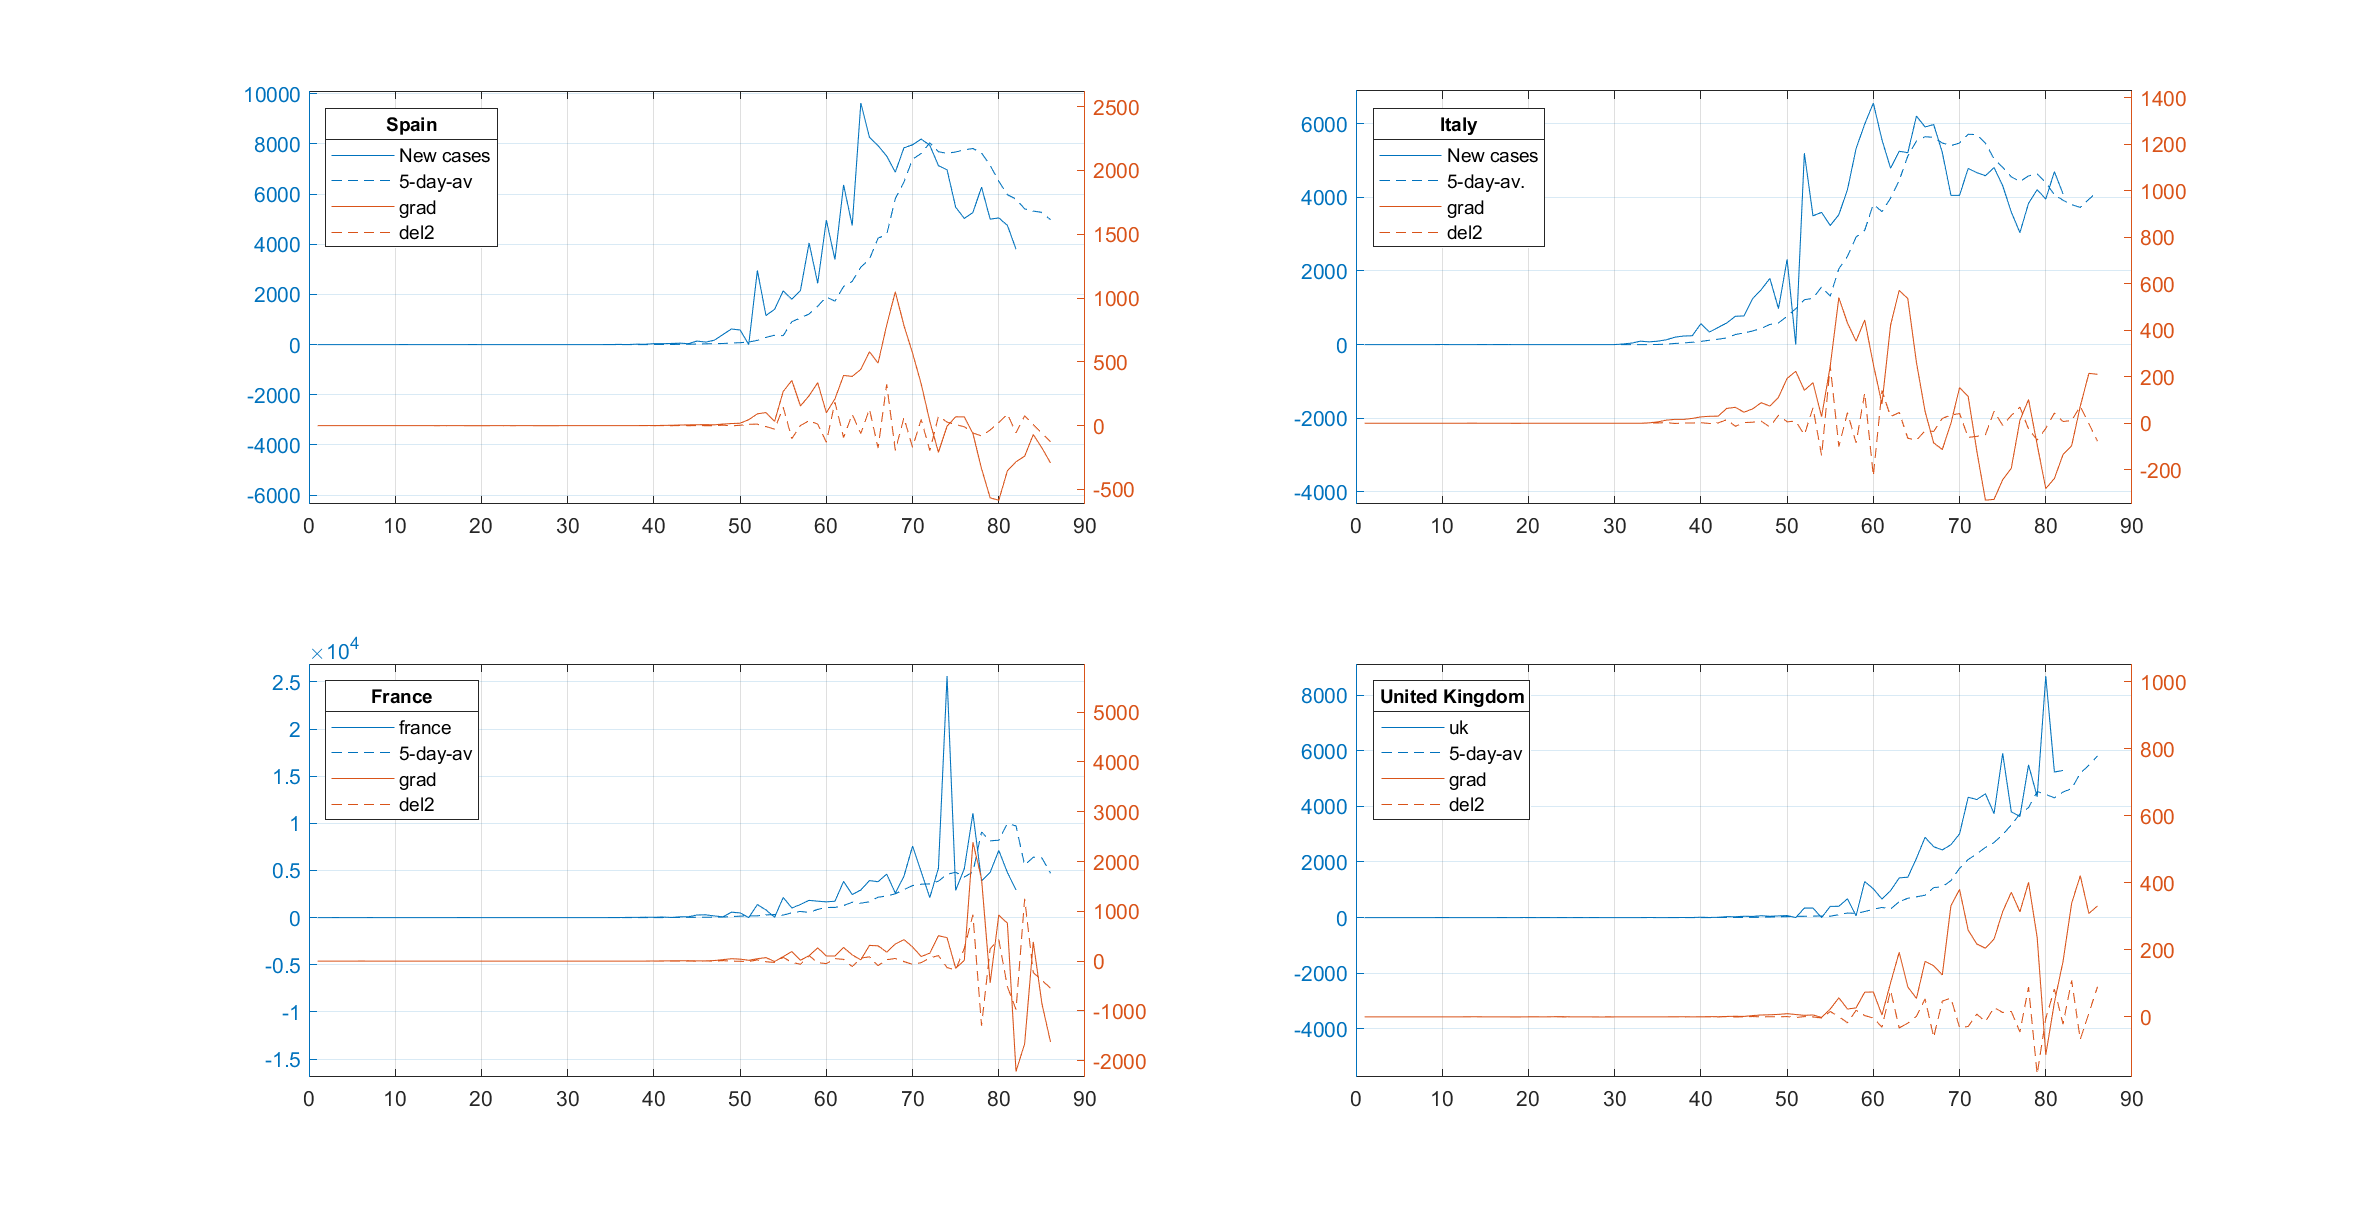
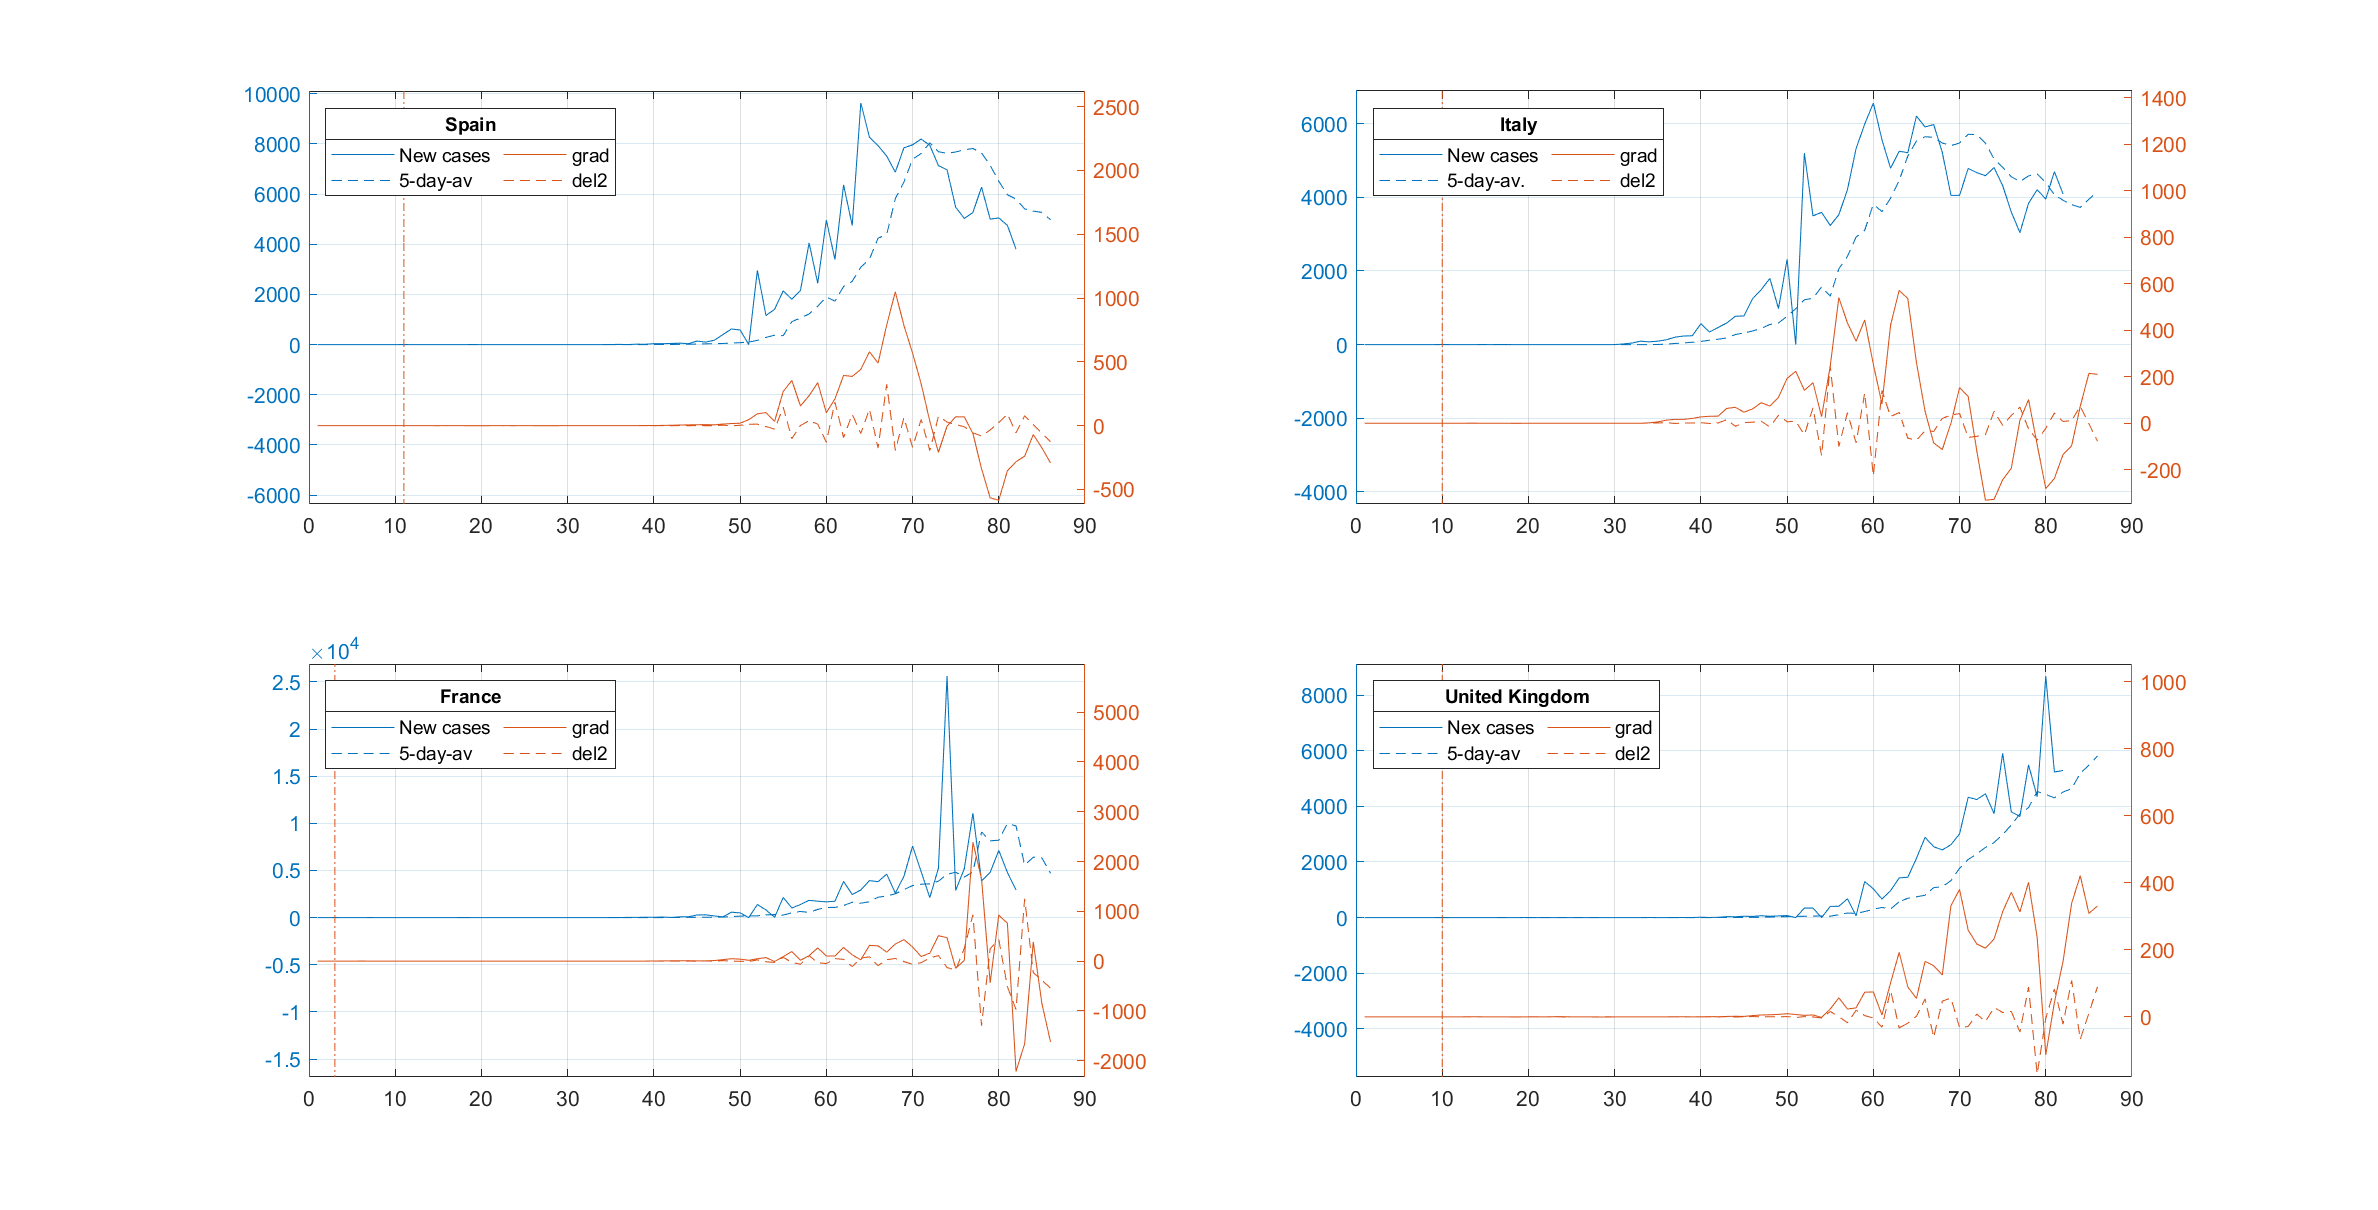
Edited legends and added offset

diff --git a/covidplotupdate.m b/covidplotupdate.m
@@ -17,7 +17,8 @@ url = ['https://raw.githubusercontent.com/CSSEGISandData/COVID-19/master/csse_co
 
 filename = 'time_series_covid19_confirmed_global.csv';
 options = weboptions('TimeOut',Inf);
-outputfilename = websave(filename, url, options)
+% outputfilename = websave(filename, url, options);
+websave(filename, url, options);
 
 data = readtable('time_series_covid19_confirmed_global.csv');
 
@@ -79,39 +80,62 @@ UK(5:end) = (UK(5:end) +UK(4:end-1) +UK(3:end-2) +UK(2:end-3) +UK(1:end-4) )/5; 
 fig1 = figure('Name','Confirmed new cases','Units','Normalized', 'OuterPosition',[0 0 1 1]);
 
 % Spain
-subplot(221), yyaxis left, plot(ESPor), hold on, plot(ESP),
+ESPh = subplot(221); yyaxis left, plot(ESPor), hold on, plot(ESP);
     ESPbelowlim = -0.66*max(ESPor);
     ESPabovelim = 1.05*max(ESPor);
     ylim([ESPbelowlim ESPabovelim ]);
-    yyaxis right, plot(gradient(ESP)), hold on, plot(del2(ESP)),
+    yyaxis right, plot(gradient(ESP)), hold on, plot(del2(ESP));
     grid on, ylim([1.05*min(min(gradient(ESP)),min(del2(ESP))), 2.5*max(max(gradient(ESP)),max(del2(ESP)))]);
     lgnd1 = legend('New cases','5-day-av','grad','del2','location','northwest');
     title(lgnd1,'Spain');
-    
+
 
 % Italy
-subplot(222), yyaxis left, plot(ITor), hold on, plot(IT),
+ITh = subplot(222); yyaxis left, plot(ITor), hold on, plot(IT);
     ylim([-0.66*max(ITor) 1.05*max(ITor)]);
-    yyaxis right, plot(gradient(IT)), hold on, plot(del2(IT)),
+    yyaxis right, plot(gradient(IT)), hold on, plot(del2(IT));
     grid on, ylim([1.05*min(min(gradient(IT)),min(del2(IT))), 2.5*max(max(gradient(IT)),max(del2(IT)))]);
     lgnd2 = legend('New cases','5-day-av.','grad','del2','location','northwest');
     title(lgnd2,'Italy');
 
 % France
-subplot(223), yyaxis left, plot(FRor), hold on, plot(FR),
+FRh = subplot(223); yyaxis left, plot(FRor), hold on, plot(FR);
     ylim([-0.66*max(FRor) 1.05*max(FRor)]);
-    yyaxis right, plot(gradient(FR)), hold on, plot(del2(FR)),
+    yyaxis right, plot(gradient(FR)), hold on, plot(del2(FR));
     grid on, ylim([1.05*min(min(gradient(FR)),min(del2(FR))), 2.5*max(max(gradient(FR)),max(del2(FR)))]);
-    lgnd3 = legend('france','5-day-av','grad','del2','location','northwest');
+    lgnd3 = legend('New cases','5-day-av','grad','del2','location','northwest');
     title(lgnd3,'France');
 
 % United Kingdom
-subplot(224), yyaxis left, plot(UKor), hold on, plot(UK),
+UKh = subplot(224); yyaxis left, plot(UKor), hold on, plot(UK);
     ylim([-0.66*max(UKor) 1.05*max(UKor)]);
-    yyaxis right, plot(gradient(UK)), hold on, plot(del2(UK)),
+    yyaxis right, plot(gradient(UK)), hold on, plot(del2(UK));
     grid on, ylim([1.05*min(min(gradient(UK)),min(del2(UK))), 2.5*max(max(gradient(UK)),max(del2(UK)))]);
-    lgnd4 = legend('uk','5-day-av','grad','del2','location','northwest');
+    lgnd4 = legend('Nex cases','5-day-av','grad','del2','location','northwest');
     title(lgnd4, 'United Kingdom');
+
+% Add offset lines
+ESPidx = find(spain~=0,1,'first');
+subplot(221), line([ESPidx ESPidx], [ESPh.YAxis(1).Limits],'LineStyle','-.');
+ESPh.Legend.String = ESPh.Legend.String(1:4);
+ESPh.Legend.NumColumns = 2;
+
+ITidx = find(italy~=0,1,'first');
+subplot(222), line([ITidx ITidx], [ITh.YAxis(1).Limits],'LineStyle','-.');
+ITh.Legend.String = ITh.Legend.String(1:4);
+ITh.Legend.NumColumns = 2;
+
+FRidx = find(france~=0,1,'first');
+subplot(223), line([FRidx FRidx], [FRh.YAxis(1).Limits],'LineStyle','-.');
+FRh.Legend.String = FRh.Legend.String(1:4);
+FRh.Legend.NumColumns = 2;
+
+UKidx = find(uk~=0,1,'first');
+subplot(224), line([UKidx UKidx], [UKh.YAxis(1).Limits],'LineStyle','-.');
+UKh.Legend.String = UKh.Legend.String(1:4);
+UKh.Legend.NumColumns = 2;
+
+
 
 % ~~~~~~~~~~~~~~~~~~~~~~~~~~~~
 %   Save plots

diff --git a/README.md b/README.md
@@ -1,10 +1,12 @@
 # Plots of covid-19 stats
 
-I use the script `template.m` to plot daily data from John Hopkins University GitHub and visualize the stats of cases in France, Spain, Italy and the United Kingdom.
+I use the script `covidplotupdate.m` to plot daily data from John Hopkins University GitHub and visualize the stats of cases in France, Spain, Italy and the United Kingdom.
 
-At the moment, I am comparing the trend of the variable confirmed new cases. 
+At the moment, I am comparing the trend of the variable confirmed new cases.
 
 ## See last update below:
+Vertical line marks the first confirmed case.
+
 <img src="https://github.com/gonzalo-villegas-curulla/covidPlots/blob/master/images/figure1.png">
 
 [Link](https://github.com/CSSEGISandData/COVID-19) to source.
